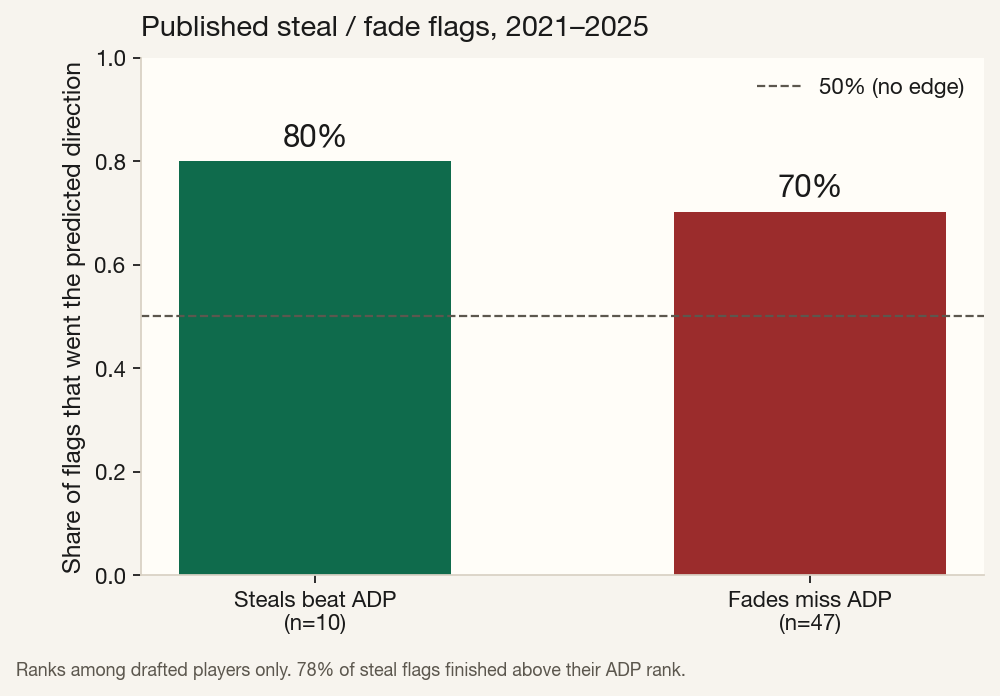
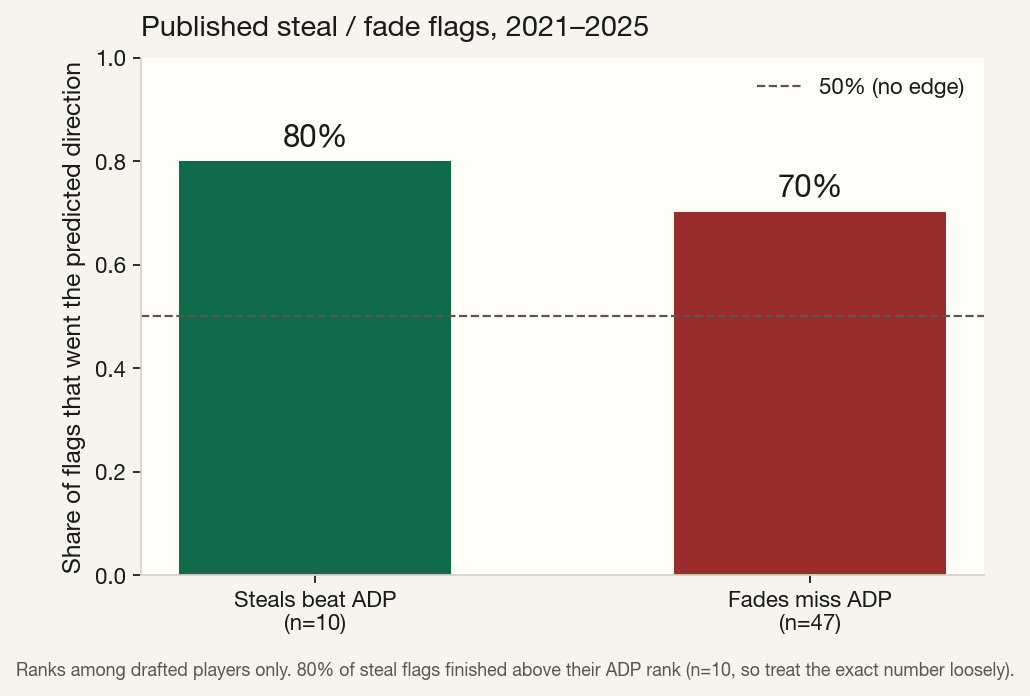
images

diff --git a/scripts/make_eval_figures.py b/scripts/make_eval_figures.py
@@ -255,7 +255,10 @@ def fig_flags(preds: pd.DataFrame, steal: dict) -> None:
         ax.text(bar.get_x() + bar.get_width() / 2, v + 0.03, f"{v:.0%}", ha="center", fontsize=14, fontweight="600")
     ax.legend(frameon=False)
     _caption(ax, "Published steal / fade flags, 2021–2025")
-    fig.text(0.01, -0.04, "Ranks among drafted players only. 78% of steal flags finished above their ADP rank.", fontsize=8, color=MUTED)
+    fig.text(0.01, -0.04,
+             f"Ranks among drafted players only. {steal_hit:.0%} of steal flags finished above their ADP rank "
+             f"(n={len(steal_g)}, so treat the exact number loosely).",
+             fontsize=8, color=MUTED)
     _save(fig, "06_flag_hit_rates.png")
     _ = steal
 
@@ -388,6 +391,248 @@ def fig_cheap_by_year(preds: pd.DataFrame) -> None:
     _save(fig, "10_cheap_calls_by_year.png")
 
 
+def load_panel() -> pd.DataFrame:
+    """Player-seasons with a real prior role, plus what happened the next year.
+
+    A row's td_luck is computed from the *previous* season, so the outcome that
+    tests it is this row's season. Next-season TD totals only exist as the lag
+    columns on the following row, hence the self-join.
+    """
+    p = pd.read_parquet(PROCESSED_DIR / "player_panel.parquet")
+    p = p.loc[p["position"].isin(["QB", "RB", "WR", "TE"])].copy()
+    p["tds_prior"] = p["rushing_tds_lag"].fillna(0) + p["receiving_tds_lag"].fillna(0)
+    nxt = p[["player_id", "season", "tds_prior"]].rename(columns={"season": "s1", "tds_prior": "tds_next"})
+    nxt["season"] = nxt["s1"] - 1
+    d = p.merge(nxt[["player_id", "season", "tds_next"]], on=["player_id", "season"], how="inner")
+    d["d_td"] = d["tds_next"] - d["tds_prior"]
+    d["d_ppr"] = d["ppr_actual"] - d["ppr_lag"]
+    return d.loc[d["td_luck"].notna() & (d["tds_prior"] >= 2) & (d["ppr_lag"] >= 60)].copy()
+
+
+LUCK_BINS = [-99, -1.5, 1.5, 3, 5, 7, 99]
+LUCK_LABELS = ["Unlucky\n(≤ −1.5)", "Neutral\n(−1.5 to 1.5)", "+1.5 to 3", "+3 to 5", "+5 to 7", "Extreme\n(≥ +7)"]
+
+
+def fig_td_luck_mechanism(panel: pd.DataFrame) -> None:
+    d = panel.copy()
+    d["bin"] = pd.cut(d["td_luck"], LUCK_BINS, labels=LUCK_LABELS)
+    g = d.groupby("bin", observed=True)
+    dtd, dppr, ns = g["d_td"].mean(), g["d_ppr"].mean(), g.size()
+    down = g["d_td"].apply(lambda s: (s < 0).mean())
+
+    fig, axes = plt.subplots(1, 2, figsize=(9.6, 4.8))
+    x = np.arange(len(dtd))
+    for ax, vals, ylab, title in [
+        (axes[0], dtd, "Change in TDs the next season", "Touchdowns come back down"),
+        (axes[1], dppr, "Change in PPR points the next season", "And the fantasy points follow"),
+    ]:
+        colors = [FADE if v < 0 else STEAL for v in vals]
+        bars = ax.bar(x, vals.to_numpy(), color=colors, width=0.7)
+        ax.axhline(0, color=INK, lw=0.8)
+        ax.set_xticks(x)
+        ax.set_xticklabels(LUCK_LABELS, fontsize=8)
+        ax.set_ylabel(ylab)
+        ax.spines[["top", "right"]].set_visible(False)
+        span = vals.max() - vals.min()
+        # Room under the lowest bar for its value label and the sample-size row.
+        ax.set_ylim(vals.min() - span * 0.30, max(vals.max() + span * 0.12, span * 0.06))
+        pad = span * 0.03
+        for bar, v in zip(bars, vals):
+            off = pad if v >= 0 else -pad
+            fmt = f"{v:+.1f}" if abs(v) < 10 else f"{v:+.0f}"
+            ax.text(bar.get_x() + bar.get_width() / 2, v + off, fmt, ha="center",
+                    va="bottom" if v >= 0 else "top", fontsize=10, fontweight="600")
+        _caption(ax, title)
+    lo = axes[0].get_ylim()[0]
+    for i, (n, pct) in enumerate(zip(ns, down)):
+        axes[0].text(i, lo + abs(lo) * 0.015, f"n={int(n)}\n{pct:.0%} down", ha="center", va="bottom",
+                     fontsize=7, color=MUTED)
+    fig.text(0.01, -0.04,
+             "TD luck = actual TDs minus what the red-zone role implies (0.42 per inside-5 carry, 0.28 per end-zone target, "
+             "0.20 per inside-10 target). 2019–2025, players with a real prior role.",
+             fontsize=8, color=MUTED)
+    fig.tight_layout()
+    _save(fig, "11_td_luck_mechanism.png")
+
+
+def fig_td_luck_by_year(panel: pd.DataFrame) -> None:
+    rows = []
+    for season, g in panel.groupby("season"):
+        hi = g.loc[g["td_luck"] >= g["td_luck"].quantile(0.9)]
+        rows.append({"season": int(season), "corr": g["td_luck"].corr(g["d_td"]),
+                     "hi_dtd": hi["d_td"].mean(), "n": len(hi)})
+    t = pd.DataFrame(rows).sort_values("season")
+
+    # A row's luck comes from the prior season, so label both ends of the test.
+    t["label"] = [f"{s-1}–{str(s)[2:]}" for s in t["season"]]
+
+    fig, axes = plt.subplots(1, 2, figsize=(9.8, 4.4), gridspec_kw={"width_ratios": [1.25, 1]})
+    ax = axes[0]
+    bars = ax.bar(t["label"], t["hi_dtd"], color=FADE, width=0.62)
+    ax.axhline(0, color=INK, lw=0.8)
+    ax.set_ylim(t["hi_dtd"].min() * 1.22, 0.35)
+    ax.set_ylabel("Mean TD change, luckiest 10%")
+    ax.tick_params(axis="x", labelsize=8.5)
+    ax.spines[["top", "right"]].set_visible(False)
+    for bar, v, n in zip(bars, t["hi_dtd"], t["n"]):
+        ax.text(bar.get_x() + bar.get_width() / 2, v - 0.12, f"{v:+.1f}", ha="center", va="top", fontsize=10, fontweight="600")
+        ax.text(bar.get_x() + bar.get_width() / 2, -0.1, f"n={int(n)}", ha="center", va="top", fontsize=7, color="#fff")
+    _caption(ax, "Every single season, the luckiest scorers gave TDs back")
+
+    ax2 = axes[1]
+    ax2.plot(t["label"], t["corr"], marker="o", color=ACCENT, lw=1.6)
+    ax2.axhline(0, color=INK, lw=0.8)
+    ax2.set_ylim(-0.62, 0.05)
+    ax2.set_ylabel("corr(TD luck, next-year TD change)")
+    ax2.tick_params(axis="x", labelsize=8.5, rotation=45)
+    ax2.spines[["top", "right"]].set_visible(False)
+    for s, v in zip(t["label"], t["corr"]):
+        ax2.text(s, v - 0.035, f"{v:.2f}", ha="center", va="top", fontsize=8, color=MUTED)
+    _caption(ax2, "Sign never flips")
+    fig.text(0.01, -0.08,
+             "Labels read luck season and the season that tested it. Seven straight years of the same effect is why the model trusts it. "
+             "The weakest year still ran −0.32.",
+             fontsize=8, color=MUTED)
+    fig.tight_layout()
+    _save(fig, "12_td_luck_by_year.png")
+
+
+def _stack_labels(values: list[float], gap: float) -> list[float]:
+    """Push callout labels apart so a tight cluster stays readable."""
+    out = list(values)
+    for i in range(1, len(out)):
+        if out[i - 1] - out[i] < gap:
+            out[i] = out[i - 1] - gap
+    return out
+
+
+def fig_td_luck_extremes(panel: pd.DataFrame, jt: dict | None) -> None:
+    d = panel
+    fig, ax = plt.subplots(figsize=(9.8, 5.8))
+    rest = d.loc[d["td_luck"] < 7]
+    tail = d.loc[d["td_luck"] >= 7]
+    ax.scatter(rest["td_luck"], rest["d_ppr"], s=13, color="#c4bba8", alpha=0.55, linewidths=0, label="Everyone else")
+    ax.scatter(tail["td_luck"], tail["d_ppr"], s=30, color=FADE, alpha=0.85, linewidths=0,
+               label=f"TD luck ≥ +7 (n={len(tail)})")
+    ax.axhline(0, color=INK, lw=0.8)
+    ax.set_xlabel("TD luck last season  (actual TDs − role-implied TDs)")
+    ax.set_ylabel("Change in PPR points the next season")
+    ax.spines[["top", "right"]].set_visible(False)
+
+    xmax = float(d["td_luck"].max())
+    ax.set_xlim(float(d["td_luck"].min()) - 0.6, xmax + 7.0)
+    ymin, ymax = ax.get_ylim()
+
+    mean_tail = tail["d_ppr"].mean()
+    ax.plot([7, xmax + 0.4], [mean_tail, mean_tail], color=FADE, ls="--", lw=1.1)
+    ax.text(0.012, 0.83, f"TD luck ≥ +7:  mean {mean_tail:+.0f} PPR (dashed),  "
+            f"{100*(tail['d_ppr']<0).mean():.0f}% declined",
+            transform=ax.transAxes, fontsize=8.5, color=FADE, fontweight="600")
+
+    sel = d.nlargest(9, "td_luck").sort_values("d_ppr", ascending=False)
+    label_x = xmax + 1.0
+    ys = _stack_labels(sel["d_ppr"].tolist(), gap=(ymax - ymin) * 0.062)
+    for r, y in zip(sel.itertuples(), ys):
+        luck_yr = int(r.season) - 1
+        ax.annotate(f"{r.player_name} {luck_yr}–{str(int(r.season))[2:]}   {r.d_ppr:+.0f}",
+                    xy=(r.td_luck, r.d_ppr), xytext=(label_x, y),
+                    textcoords="data", va="center", ha="left", fontsize=7.5, color=INK,
+                    arrowprops=dict(arrowstyle="-", color=LINE, lw=0.7, shrinkA=0, shrinkB=3))
+    if jt:
+        ax.axvline(jt["td_luck"], color=ACCENT, ls="--", lw=1.4)
+        ax.text(jt["td_luck"] - 0.25, ymin + (ymax - ymin) * 0.055,
+                f"Jonathan Taylor 2026\nTD luck {jt['td_luck']:+.1f}  ({jt['z']:.1f} SD)",
+                ha="right", va="bottom", fontsize=9, color=ACCENT, fontweight="600")
+    ax.legend(frameon=False, loc="upper left", fontsize=8.5)
+    _caption(ax, "The extreme tail is where TD luck actually bites")
+    fig.text(0.01, -0.03,
+             f"2019–2025; labels are the luck season and the season that tested it. Of the {len(tail)} seasons with TD luck ≥ +7, "
+             f"{100*(tail['d_td']<0).mean():.0f}% lost touchdowns the next year and {100*(tail['d_ppr']<0).mean():.0f}% lost fantasy points. "
+             "Not all of it is regression — McCaffrey's collapse was a torn achilles — which is why a fade needs a second reason to agree.",
+             fontsize=8, color=MUTED)
+    _save(fig, "13_td_luck_extremes.png")
+
+
+REASON_INTENT = {
+    "overproduction": ("Overproduction", -1),
+    "workload_cliff": ("Workload cliff", -1),
+    "td_luck": ("TD luck (over)", -1),
+    "eff_index": ("Efficiency spike", -1),
+    "sophomore_leap": ("Sophomore leap", +1),
+    "role_expand": ("Role expansion", +1),
+    "new_starter_vacated": ("New starter", +1),
+    "pass_catch_rb": ("Pass-catching RB", +1),
+}
+
+
+def fig_reason_evidence() -> None:
+    p = pd.read_parquet(PROCESSED_DIR / "player_panel.parquet")
+    d = p.loc[p["position"].isin(["QB", "RB", "WR", "TE"]) & p["ppr_actual"].notna()
+              & (p["ppr_lag"] >= 60) & p["adp"].notna()].copy()
+    d["adp_rank"] = d.groupby(["season", "position"])["adp"].rank(method="min")
+    d["act_rank"] = d.groupby(["season", "position"])["ppr_actual"].rank(ascending=False, method="min")
+    d["beat"] = (d["adp_rank"] - d["act_rank"]) > 0
+
+    rows = []
+    for feat, (label, intent) in REASON_INTENT.items():
+        if feat not in d.columns:
+            continue
+        col = d[feat]
+        if col.dropna().nunique() < 3:
+            hi, lo = d.loc[col > 0], d.loc[col <= 0]
+        else:
+            cut = col.quantile(0.8)
+            hi, lo = d.loc[col >= cut], d.loc[col < cut]
+        if len(hi) < 20:
+            continue
+        p_hi, p_lo = hi["beat"].mean(), lo["beat"].mean()
+        gap = p_hi - p_lo
+        se = np.sqrt(p_hi * (1 - p_hi) / len(hi) + p_lo * (1 - p_lo) / len(lo))
+        rows.append({"label": label, "gap": 100 * gap, "ci": 100 * 1.96 * se, "n": len(hi),
+                     "works": np.sign(gap) == intent and abs(gap) > 1.96 * se})
+    t = pd.DataFrame(rows).sort_values("gap")
+
+    fig, ax = plt.subplots(figsize=(9.4, 5.0))
+    colors = [(FADE if r.gap < 0 else STEAL) if r.works else "#c4bba8" for r in t.itertuples()]
+    ax.barh(t["label"], t["gap"], color=colors, height=0.6)
+    ax.errorbar(t["gap"], range(len(t)), xerr=t["ci"], fmt="none", ecolor=INK, elinewidth=1.0,
+                capsize=3, alpha=0.65)
+    ax.axvline(0, color=INK, lw=0.9)
+    ax.set_xlabel("Change in the odds of beating ADP  (percentage points, 95% CI)")
+    ax.spines[["top", "right"]].set_visible(False)
+    for i, r in enumerate(t.itertuples()):
+        edge = r.gap + (r.ci if r.gap >= 0 else -r.ci)
+        off = 1.6 if r.gap >= 0 else -1.6
+        ax.text(edge + off, i, f"{r.gap:+.0f}  (n={int(r.n)})", va="center",
+                ha="left" if r.gap >= 0 else "right", fontsize=8.5)
+    ax.set_xlim(t["gap"].min() - t["ci"].max() - 14, t["gap"].max() + t["ci"].max() + 14)
+    from matplotlib.lines import Line2D
+    ax.legend(handles=[
+        Line2D([0], [0], marker="s", color="none", markerfacecolor=FADE, markersize=9, label="Real fade signal"),
+        Line2D([0], [0], marker="s", color="none", markerfacecolor=STEAL, markersize=9, label="Real steal signal"),
+        Line2D([0], [0], marker="s", color="none", markerfacecolor="#c4bba8", markersize=9, label="Not distinguishable from zero"),
+    ], frameon=False, loc="lower right", fontsize=8.5)
+    _caption(ax, "Which steal / fade reasons actually earn their chip")
+    fig.text(0.01, -0.07,
+             "2019–2025 drafted players; each bar compares the flagged group against everyone else, one reason at a time. "
+             "Bars whose interval crosses zero are honest context, not evidence — on the board a reason only prints when the model "
+             "already disagrees with ADP, so the weak ones never fire on their own.",
+             fontsize=8, color=MUTED)
+    fig.tight_layout()
+    _save(fig, "14_reason_evidence.png")
+
+
+def jt_context() -> dict | None:
+    path = PROCESSED_DIR / "rankings_2026.csv"
+    if not path.exists():
+        return None
+    r = pd.read_csv(path)
+    row = r.loc[r["player_name"].str.contains("Jonathan Taylor", na=False)]
+    if row.empty:
+        return None
+    return {"td_luck": float(row["td_luck"].iloc[0]), "z": float(row["z_td_luck"].iloc[0])}
+
+
 def main() -> None:
     _style()
     preds, by_season, steal = load_or_backtest()
@@ -402,6 +647,13 @@ def main() -> None:
     fig_midround(preds)
     fig_top5(preds)
     fig_cheap_by_year(preds)
+
+    panel = load_panel()
+    print(f"Feature-forensics rows: {len(panel)}")
+    fig_td_luck_mechanism(panel)
+    fig_td_luck_by_year(panel)
+    fig_td_luck_extremes(panel, jt_context())
+    fig_reason_evidence()
     print(f"Copy these into WordPress from {COPY_DIR}")
 
 
